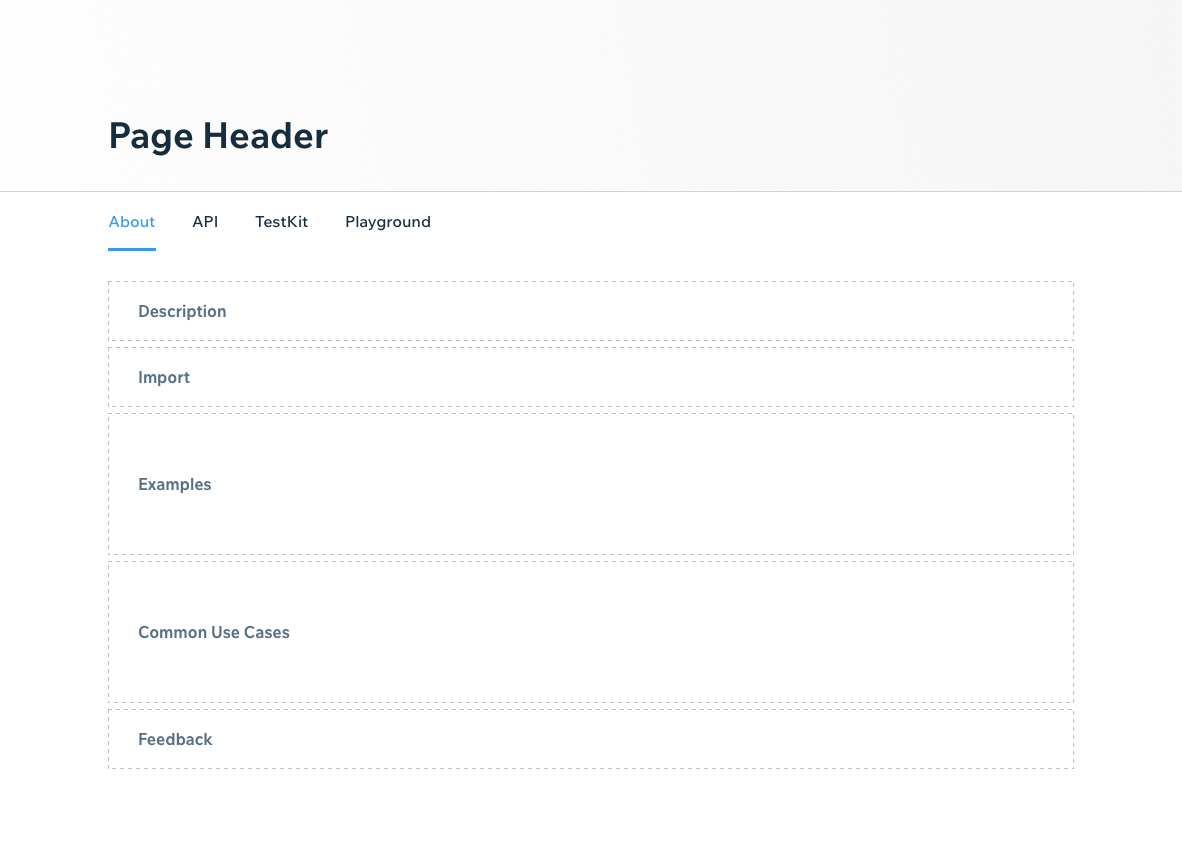
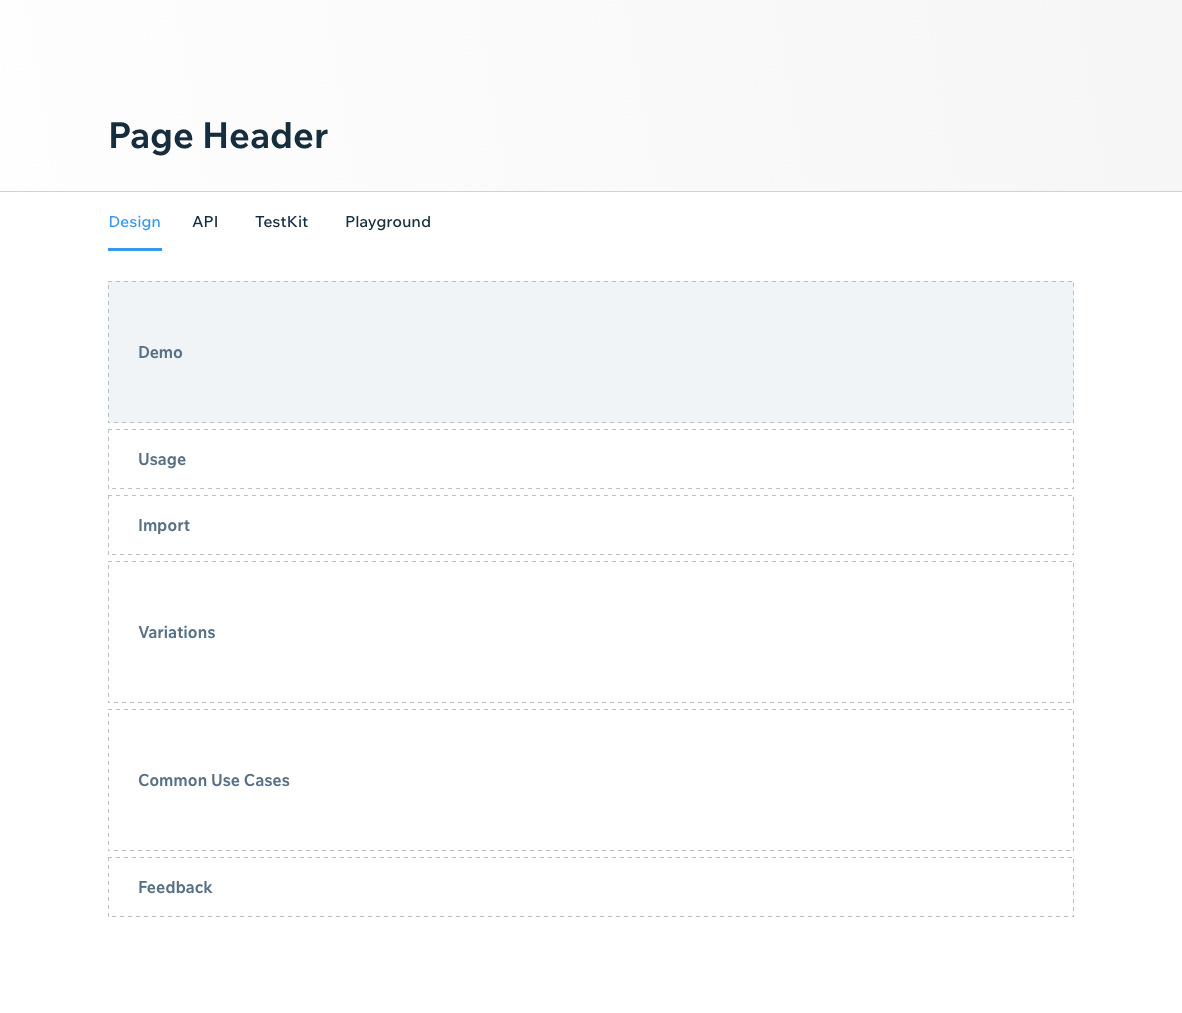
Storybook Guidelines - fixed titles, added demo section (#6999)
* Fix titles, add demo section

* Fix of AvatarGroup titles

* Fix of Box titles

* Fix PageSection titles

* Fix of Input titles

* Fix of Modal titles

diff --git a/packages/wix-style-react/src/Box/docs/index.story.js b/packages/wix-style-react/src/Box/docs/index.story.js
@@ -103,17 +103,15 @@ export default {
 
     tabs([
       tab({
-        title: 'Description',
+        title: 'Design',
         sections: [
-          description(
-            `
-            Box allows to layout, align, space and style its children elements. It’s a container that can wrap and apply CSS styles to one or more elements inside of it. 
-            `,
-          ),
+          description({
+            title: 'Usage',
+            text: 'Box allows to layout, align, space and style its children elements. It’s a container that can wrap and apply CSS styles to one or more elements inside of it.',
+          }),
 
           doDont({
             do: {
-              title: 'Use it',
               list: [
                 'To arrange elements in vertical or horizontal direction.',
                 'To apply custom spacing and styles.',
@@ -121,7 +119,6 @@ export default {
               ],
             },
             dont: {
-              title: `Dont't use it`,
               list: [
                 'To build page layouts, instead use <Page/> component.',
                 'To structure content inside of a page, instead use a combination of <Layout/> and <Card/> components.',
@@ -133,7 +130,7 @@ export default {
 
           divider(),
 
-          title('Examples'),
+          title('Variations'),
 
           example({
             title: 'Structure',

diff --git a/packages/wix-style-react/src/Input/docs/index.story.js b/packages/wix-style-react/src/Input/docs/index.story.js
@@ -59,25 +59,21 @@ export default {
 
     tabs([
       tab({
-        title: 'Description',
+        title: 'Design',
         sections: [
           description({
-            title: 'Description',
-            text: `
-            Input allows to insert short text values. This component is used in submit forms or to build other form components like \`<Autocomplete/>\` or \`<NumberInput/>\`.<br/>
-            `,
+            title: 'Usage',
+            text: 'Input allows to insert short text values. This component is used in submit forms or to build other form components like \`<Autocomplete/>\` or \`<NumberInput/>\`.<br/>',
           }),
 
           doDont({
             do: {
-              title: 'Use it',
               list: [
                 'To insert names, titles and other short textual information.',
                 'To build custom inputs like Credit Card input.',
               ],
             },
             dont: {
-              title: `Dont't use it`,
               list: [
                 'To insert long paragraphs, instead use the <InputArea/> component.',
                 'As a search input, instead use the <Search/> component.',
@@ -89,7 +85,7 @@ export default {
 
           divider(),
 
-          title('Examples'),
+          title('Variations'),
 
           example({
             title: 'Size',

diff --git a/packages/wix-style-react/src/Modal/docs/index.story.js b/packages/wix-style-react/src/Modal/docs/index.story.js
@@ -60,13 +60,12 @@ export default {
 
     tabs([
       tab({
-        title: 'Description',
+        title: 'Design',
         sections: [
           columns([
             description({
-              title: 'Description',
-              text: `
-              Modal controls the overlay layout that appears on call functions. It’s a container for components like \`CustomModalLayout\`, \`ModalPreviewLayout\` and others.`,
+              title: 'Usage',
+              text: 'Modal controls the overlay layout that appears on call functions. It’s a container for components like \`CustomModalLayout\`, \`ModalPreviewLayout\` and others.',
             }),
           ]),
 
@@ -83,7 +82,7 @@ export default {
 
           divider(),
 
-          title('Examples'),
+          title('Variations'),
 
           example({
             title: 'Structure',

diff --git a/packages/wix-style-react/src/AvatarGroup/docs/index.story.js b/packages/wix-style-react/src/AvatarGroup/docs/index.story.js
@@ -88,10 +88,10 @@ export default {
 
     tabs([
       tab({
-        title: 'Description',
+        title: 'Design',
         sections: [
           description({
-            title: 'Description',
+            title: 'Usage',
             text: `AvatarGroup allows to display a number of avatars (digital representation of a user) as a single entity. It’s a building block grouping number of standalone <Avatar/> components.`,
           }),
 
@@ -114,7 +114,7 @@ export default {
 
           divider(),
 
-          title('Examples'),
+          title('Variations'),
 
           example({
             title: 'Size',

diff --git a/packages/wix-style-react/src/PageSection/docs/index.story.js b/packages/wix-style-react/src/PageSection/docs/index.story.js
@@ -53,10 +53,10 @@ export default {
 
     tabs([
       tab({
-        title: 'Description',
+        title: 'Design',
         sections: [
           description({
-            title: 'Description',
+            title: 'Usage',
             text:
               'PageSection is a standalone element that divides content of a page into multiple sections.',
           }),
@@ -76,7 +76,7 @@ export default {
 
           divider(),
 
-          title('Examples'),
+          title('Variations'),
 
           example({
             title: 'Structure',

diff --git a/packages/wix-style-react/docs/contribution/STORYBOOK_GUIDELINES.md b/packages/wix-style-react/docs/contribution/STORYBOOK_GUIDELINES.md
@@ -10,9 +10,10 @@ Storybook documentation provides information about components for UX designers a
 Guidelines Structure
 
 - [Page Structure](#page-structure)
-- [Description Section](#description-section)
+- [Demo Section](#demo-section)
+- [Usage Section](#usage-section)
 - [Import Section](#import-section)
-- [Examples Section](#examples-section)
+- [Variations Section](#variations-section)
   - [1. Core Structure](#1-core-structure)
   - [2. Properties](#2-properties)
   - [3. Common Use Cases](#3-common-use-cases)
@@ -26,10 +27,31 @@ Each component story consists of following sections:
 
 ![](../assets/PageStructure.png)
 
+## Demo Section
 
-## Description Section
+This section should contain a single interactive example that showcase default component usage: 
+<table>
+<tr>
+    <td><img src='../assets/DemoDO.png'/></td>
+    <td><img src='../assets/DemoDONT.png'/></td>
+  </tr>
+  <tr>
+    <td>
+      <img src='../assets/DO.png'/><br>
+      <strong>DO.</strong>
+      Use content to display common use case, that component is designed for.
+    </td>
+    <td>
+      <img src='../assets/DONT.png'/><br>
+      <strong>DON'T.</strong>
+      Don’t display empty version that might raise more questions than answers.
+    </td>
+  </tr>
+</table>
 
-Description should provide enough information to make a decision if it’s a right component for a user case or an alternative solution should be selected instead. It should explain:
+## Usage Section
+
+This section should provide enough information for a user to make a decision if it’s a right component for a case or an alternative solution should be selected instead. Component description should explain:
 
 - The primary purpose of the component
 - If it’s a building part for a larger component (i.e. ListItemSelect)
@@ -58,13 +80,13 @@ import { AddItem } from 'wix-style-react';
 ```
 
 
-## Examples Section
+## Variations Section
 
-Examples should demonstrate how component behaves and when to use it. In order to maintain consistency between stories, examples should go in this order:
+This section should demonstrate how component behaves and when to use it. In order to maintain consistency between stories, examples should go in this order:
 
 1. Core structure
-1. Properties
-1. Common use cases
+2. Properties
+3. Common use cases
 
 ### 1. Core Structure
 
